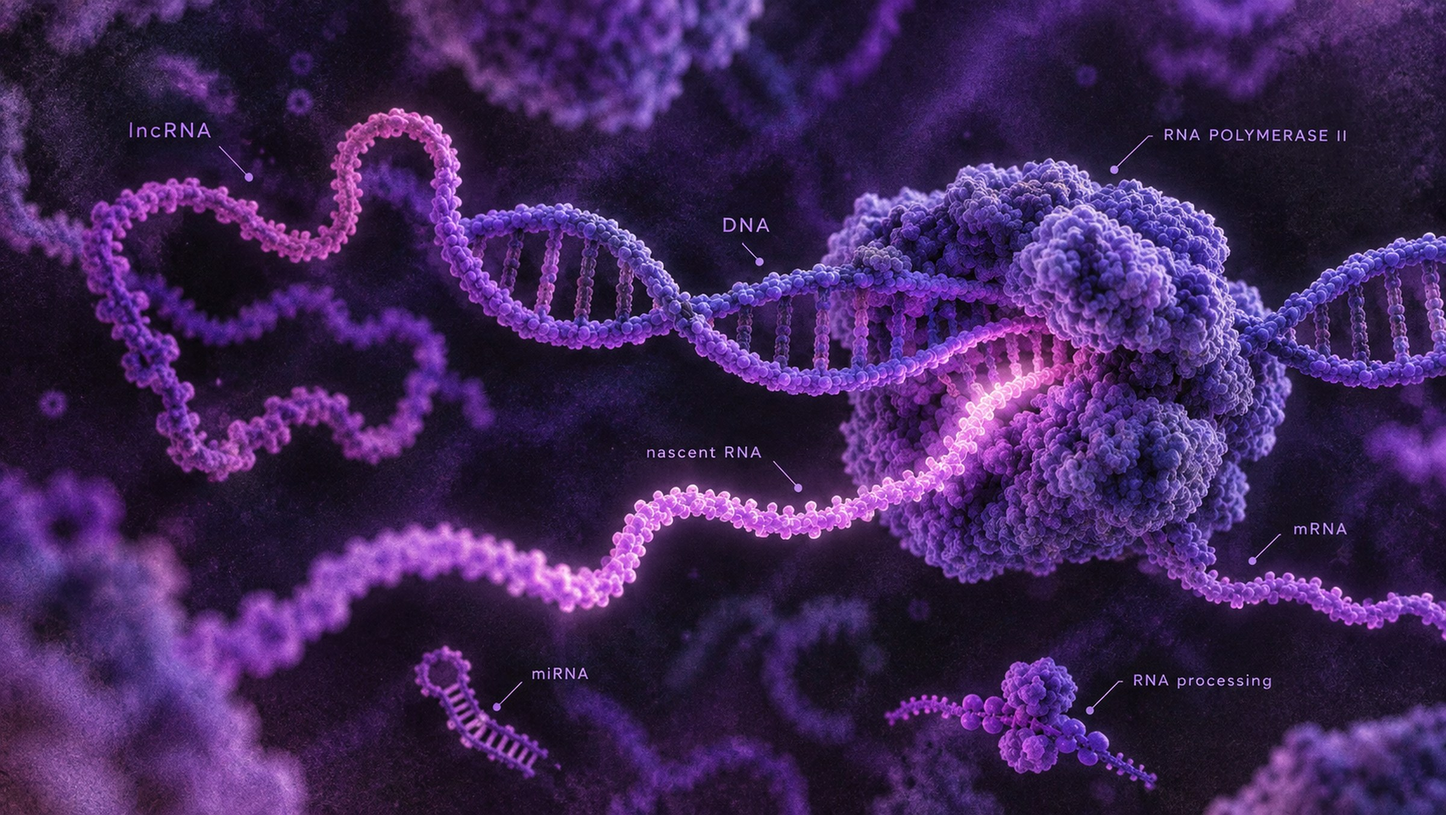
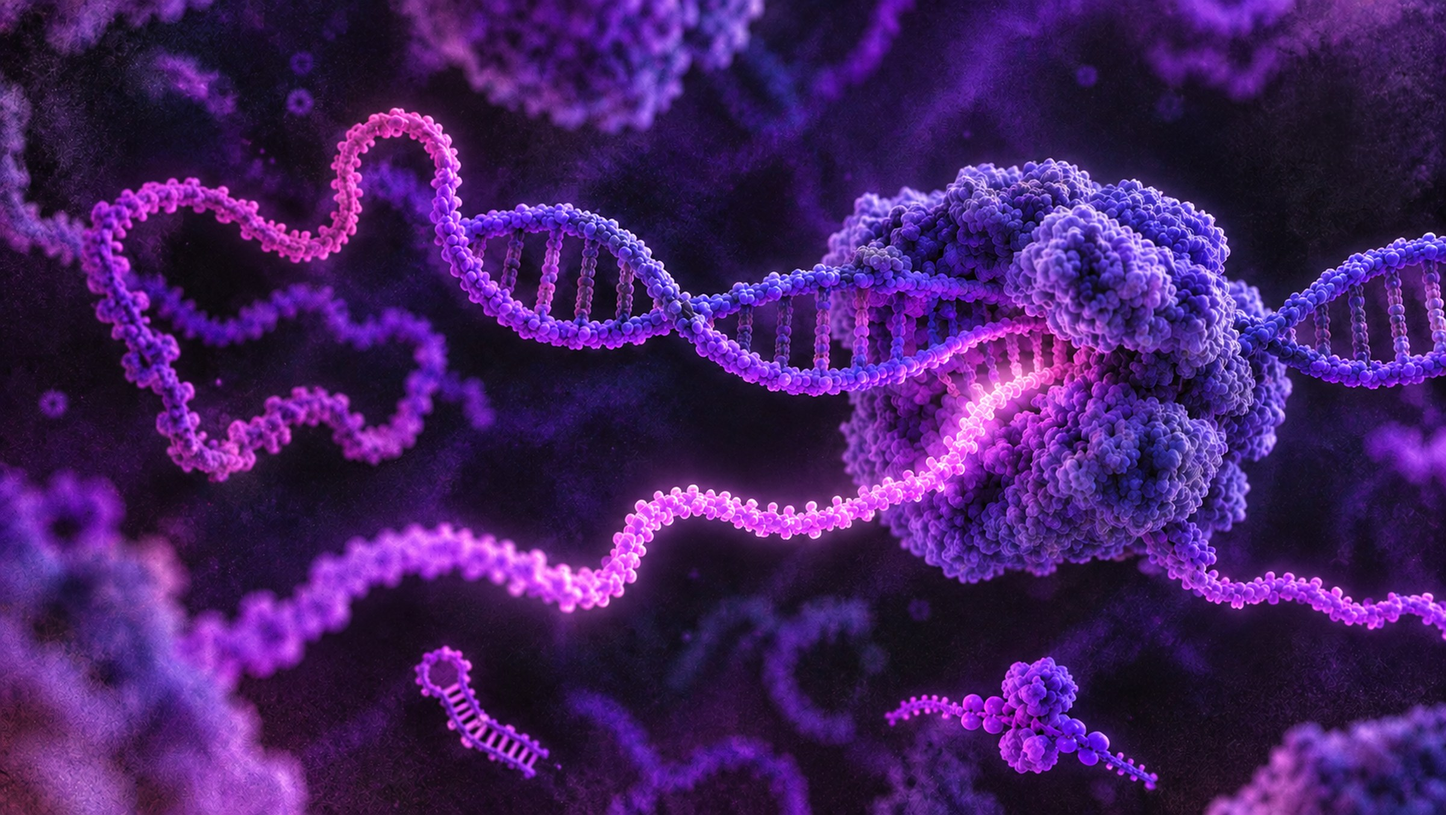
Add initial HTML structure for DEAR Lab website and include background image without labels

diff --git a/_backup/before-hero-nolabels/index.html b/_backup/before-hero-nolabels/index.html
@@ -54,7 +54,7 @@
   <!-- ============ HERO ============ -->
   <header class="hero">
     <div class="hero__stage">
-      <img src="assets/img/hero/home-bg-rna.jpg?v=2" alt="" class="hero__art-img">
+      <img src="assets/img/hero/home-bg-rna.jpg" alt="" class="hero__art-img">
       <div class="hero__filter" aria-hidden="true"></div>
       <h1 class="hero__title">Decoding RNA.<br>Discovering<br><em>vulnerabilities</em>.<br>Engineering<br>solutions.</h1>
     </div>
